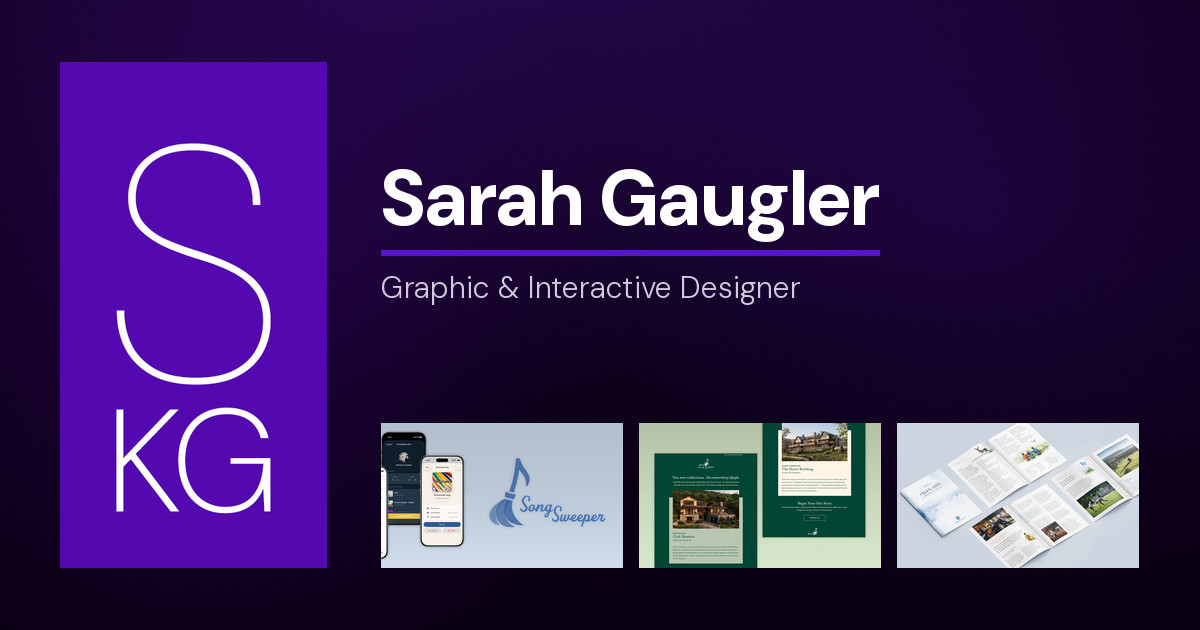
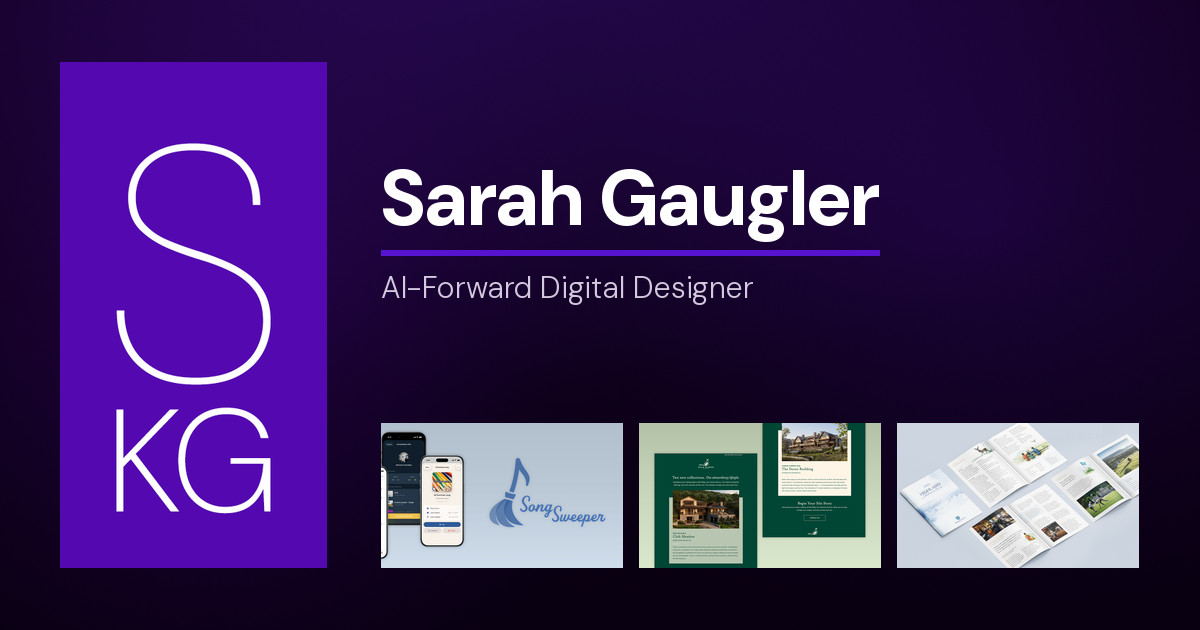
Add AI-Forward Digital Designer role line
Place the role under the hero name, refresh the meta and social
descriptions, and update the Open Graph image to match.

Changed region(s): [[0.3083, 0.4222, 0.6783, 0.4825]]

diff --git a/index.html b/index.html
@@ -6,7 +6,7 @@
     <title>Sarah Gaugler | Portfolio</title>
     <meta
       name="description"
-      content="Sarah Gaugler is a graphic and interactive designer. Her portfolio features brand, email, layout, and interactive work for luxury hospitality clients."
+      content="Sarah Gaugler is an AI-forward digital designer creating web, email, and interactive experiences, plus brand and layout work for luxury hospitality clients."
     />
     <link rel="canonical" href="https://www.sarahkgaugler.com/" />
     <meta property="og:type" content="website" />
@@ -14,7 +14,7 @@
     <meta property="og:title" content="Sarah Gaugler | Portfolio" />
     <meta
       property="og:description"
-      content="Sarah Gaugler is a graphic and interactive designer. Her portfolio features brand, email, layout, and interactive work for luxury hospitality clients."
+      content="Sarah Gaugler is an AI-forward digital designer creating web, email, and interactive experiences, plus brand and layout work for luxury hospitality clients."
     />
     <meta
       property="og:image"
@@ -31,7 +31,7 @@
     <meta name="twitter:title" content="Sarah Gaugler | Portfolio" />
     <meta
       name="twitter:description"
-      content="Sarah Gaugler is a graphic and interactive designer. Her portfolio features brand, email, layout, and interactive work for luxury hospitality clients."
+      content="Sarah Gaugler is an AI-forward digital designer creating web, email, and interactive experiences, plus brand and layout work for luxury hospitality clients."
     />
     <meta
       name="twitter:image"
@@ -73,6 +73,7 @@
       <section id="home" class="hero">
         <img src="./ASSETS/SKG_BANNER.png" alt="SKG Logo" class="hero__logo" />
         <h1 class="hero__title">Sarah Gaugler</h1>
+        <p class="hero__role">AI-Forward Digital Designer</p>
         <p class="hero__intro">
           Blending visual craft, technical execution, and AI-assisted creative workflows
         </p>

diff --git a/style.css b/style.css
@@ -188,6 +188,15 @@ a {
   text-underline-offset: 0.18em;
 }
 
+.hero__role {
+  margin: 0 auto;
+  color: var(--text);
+  font-size: clamp(1.12rem, 1.9vw, 1.45rem);
+  font-weight: 500;
+  letter-spacing: 0.06em;
+  line-height: 1.35;
+}
+
 .hero__intro {
   width: min(720px, 100%);
   margin: 0.25rem auto 0;
@@ -364,6 +373,7 @@ a {
 
 .hero__logo,
 .hero__title,
+.hero__role,
 .hero__intro,
 .hero__preview-tile {
   opacity: 0;
@@ -397,12 +407,21 @@ body.is-ready .hero__title {
     transform 0.62s cubic-bezier(0.2, 0.9, 0.2, 1.05) 0.08s;
 }
 
+body.is-ready .hero__role {
+  animation: heroLinkIn 0.48s cubic-bezier(0.2, 0.9, 0.2, 1.02) forwards;
+  animation-delay: 0.16s;
+}
+
 .hero__logo {
   transform: translateY(-34px) scale(0.72) rotate(-7deg);
 }
 
 .hero__title {
   transform: translateY(24px) scale(0.95);
+}
+
+.hero__role {
+  transform: translateY(24px) scale(0.97);
 }
 
 .hero__intro {
@@ -855,6 +874,10 @@ body.modal-open {
     font-size: 1.02rem;
   }
 
+  .hero__role {
+    letter-spacing: 0.04em;
+  }
+
   .hero__preview-strip {
     grid-template-columns: 1fr;
     width: min(560px, calc(100% - 1rem));
@@ -954,6 +977,7 @@ body.modal-open {
 
   .hero__logo,
   .hero__title,
+  .hero__role,
   .hero__intro,
   .hero__preview-tile {
     opacity: 1 !important;
